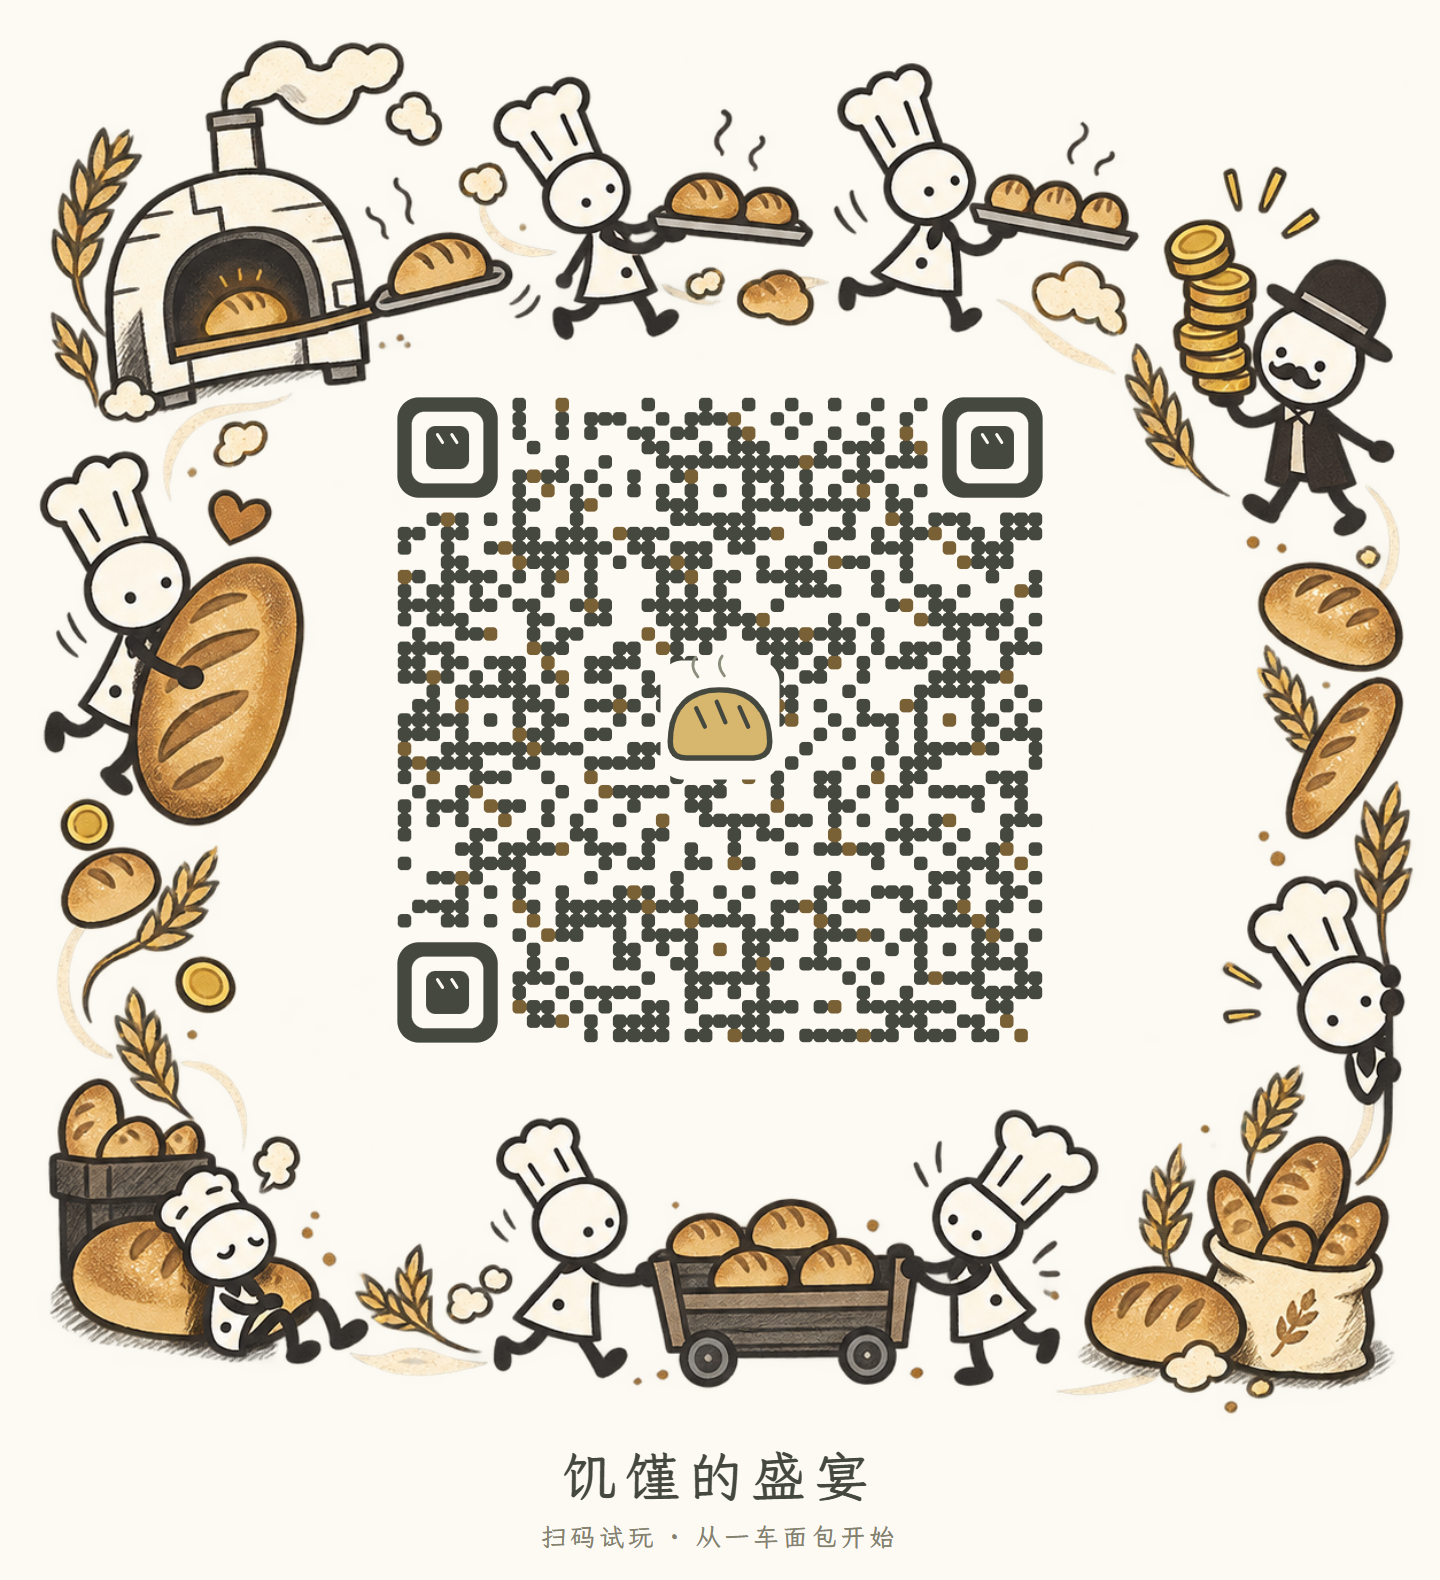
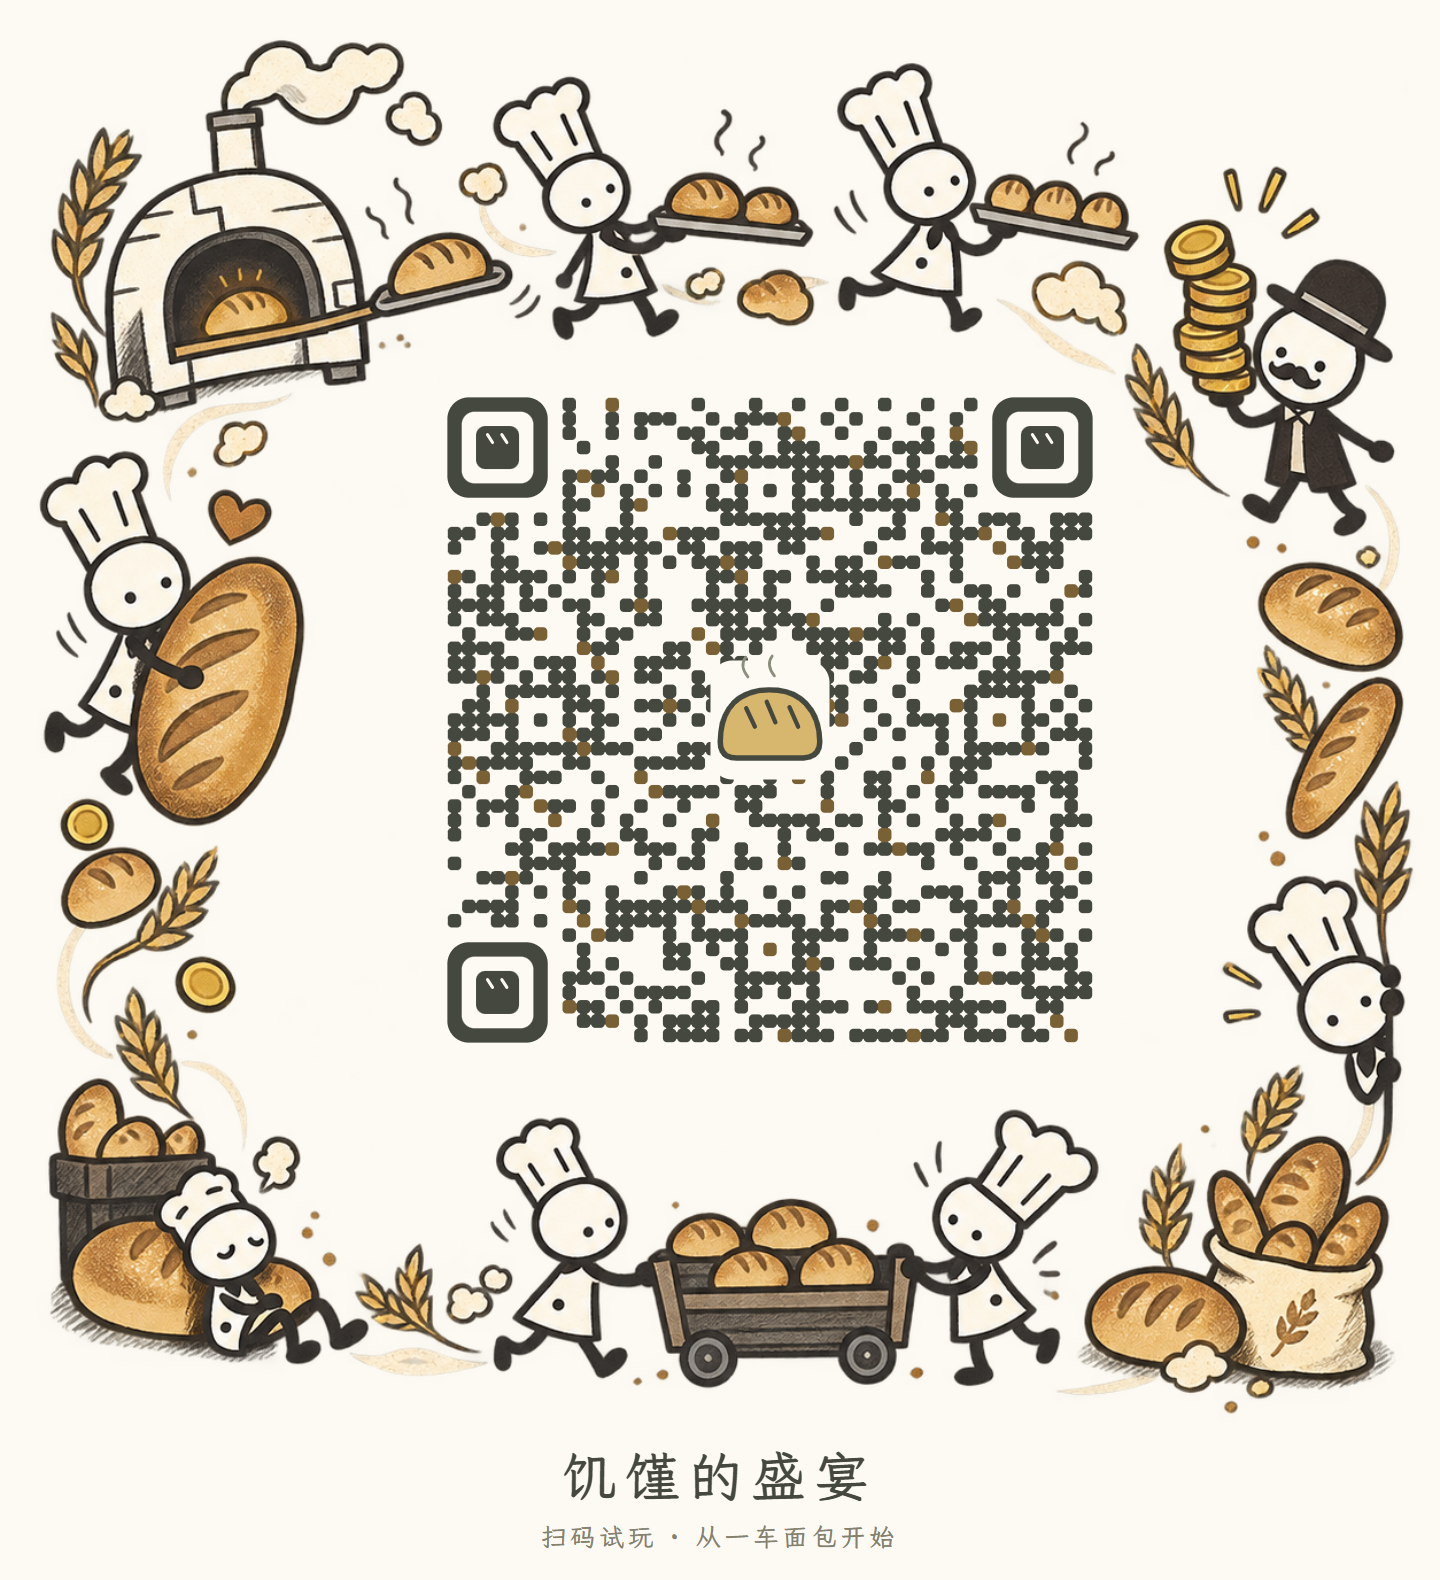
按外圈留白修正群像二维码的视觉居中

Changed region(s): [[0.25, 0.2481, 0.7812, 0.6823]]

diff --git a/游戏/分享/群像二维码.html b/游戏/分享/群像二维码.html
@@ -1,5 +1,5 @@
 <!doctype html>
 <html lang="zh-CN"><head><meta charset="utf-8"><meta name="viewport" content="width=1440"><title>饥馑的盛宴 · 面包工坊群像二维码</title><style>
 @font-face{font-family:WorkshopHand;src:url('../public/assets/fonts/workshop-hand.woff2') format('woff2');font-display:block}
-*{box-sizing:border-box}body{margin:0;background:#fcfaf3;color:#45483f;font-family:WorkshopHand,serif}.card{position:relative;width:1440px;height:1580px;background:#fcfaf3;overflow:hidden}.scene{position:absolute;inset:0 auto auto 0;width:1440px;height:1440px;object-fit:contain}.qr{position:absolute;left:340px;top:340px;width:760px;height:760px}h1{position:absolute;top:1440px;left:0;width:100%;margin:0;text-align:center;font-size:54px;font-weight:normal;letter-spacing:9px;line-height:1.3}.invitation{position:absolute;top:1520px;width:100%;margin:0;text-align:center;font-size:25px;letter-spacing:4px;color:#84816d}
+*{box-sizing:border-box}body{margin:0;background:#fcfaf3;color:#45483f;font-family:WorkshopHand,serif}.card{position:relative;width:1440px;height:1580px;background:#fcfaf3;overflow:hidden}.scene{position:absolute;inset:0 auto auto 0;width:1440px;height:1440px;object-fit:contain}.qr{position:absolute;left:770px;top:720px;width:760px;height:760px;transform:translate(-50%,-50%)}h1{position:absolute;top:1440px;left:0;width:100%;margin:0;text-align:center;font-size:54px;font-weight:normal;letter-spacing:9px;line-height:1.3}.invitation{position:absolute;top:1520px;width:100%;margin:0;text-align:center;font-size:25px;letter-spacing:4px;color:#84816d}
 </style></head><body><main class="card"><img class="scene" src="assets/面包工坊群像外圈.png" alt="厨师端面包、工人推车、老板举金币，围成一圈面包店生活场景"><img class="qr" src="试玩二维码-群像码芯.svg" alt="扫码打开饥馑的盛宴"><h1>饥馑的盛宴</h1><p class="invitation">扫码试玩 · 从一车面包开始</p></main></body></html>
